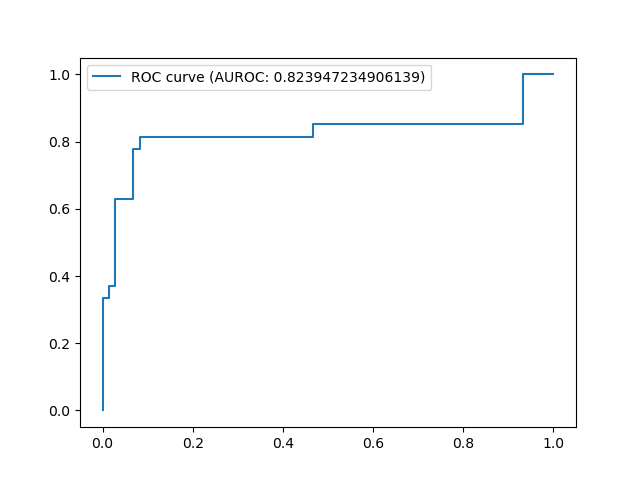
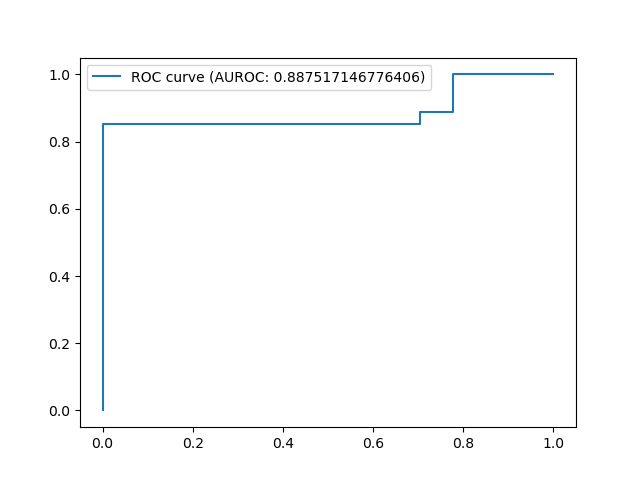
updates to comments in train and test

diff --git a/NTU/test.py b/NTU/test.py
@@ -38,7 +38,7 @@ def load_model(test_config):
 	# Assifn test clips
 	args.data_file = test_config["test_clips"]
 	# Sequentially advance 1 frame per step 
-	args.n_seqs = [f - args.nd for f in test_config["frames_per_clip"]] # New: changed to list
+	args.n_seqs = [f - args.nd for f in test_config["frames_per_clip"]] # New: changed to list # Changed to test all sequences(aka window) in video(aka trace). Number of sequences(aka windows) is total frames-frame size(aka nd = 16)
 
 	# Load  weights  
 	encoder = Encoder(args)
@@ -73,7 +73,8 @@ frame_lens = {'train': [148, 130, 130, 148, 130, 148, 130, 130, 148, 130, 130, 1
 				'out_foggy': [123, 122, 123, 121, 124, 123, 121, 121, 122, 123, 123, 121, 123, 122, 121, 121, 122, 122, 123, 123, 123, 122, 122, 123, 122, 122, 122], 
 				'out_night': [123, 122, 123, 121, 124, 123, 121, 121, 122, 123, 123, 121, 123, 122, 121, 121, 122, 122, 123, 123, 123, 122, 122, 123, 122, 122, 122], 
 				'out_snowy': [123, 122, 123, 121, 124, 123, 121, 121, 122, 123, 123, 121, 123, 122, 121, 121, 122, 122, 123, 123, 123, 122, 122, 123, 122, 122, 122], 
-				'out_rainy': [111, 141, 142, 112, 114, 141, 140, 141, 141, 140, 111, 112, 111, 113, 114, 111, 114, 141, 114, 111, 116, 141, 112, 122, 112, 141, 111, 112, 141, 141, 112, 112, 111, 116, 142, 140, 111, 116, 111, 116, 116, 114, 113, 111, 142, 115, 114, 111, 141, 116, 122, 114, 114, 141, 112, 141, 114, 141, 111, 111, 111, 113, 111, 114, 111, 141, 116, 111, 122, 117, 111, 111, 111]}
+				#'out_rainy_old': [111, 141, 142, 112, 114, 141, 140, 141, 141, 140, 111, 112, 111, 113, 114, 111, 114, 141, 114, 111, 116, 141, 112, 122, 112, 141, 111, 112, 141, 141, 112, 112, 111, 116, 142, 140, 111, 116, 111, 116, 116, 114, 113, 111, 142, 115, 114, 111, 141, 116, 122, 114, 114, 141, 112, 141, 114, 141, 111, 111, 111, 113, 111, 114, 111, 141, 116, 111, 122, 117, 111, 111, 111],
+				'out_rainy': [141, 122, 112, 114, 141, 140, 141, 140, 111, 112, 111, 113, 111, 114, 111, 114, 141, 114, 111, 116, 111, 114, 141, 111, 111, 141, 142]}
 
 bi3dof_simple_test_in = {
     "model_file" : "bi3dof-simple-600epoch-6seq.pt", # "model/nuscenes-mini/bi3dof-simple-600epoch.pt",
@@ -83,10 +84,11 @@ bi3dof_simple_test_in = {
 }
 
 def getOutBi3DOF(type_of_OOD):
+	features_folder = "../NTU_features_rainy_only/" # "../NTU_features_all/" # Change to "../NTU_features_rainy_only/" for rainy
 	bi3dof_simple_test_out = {
 		"model_file" : "bi3dof-simple-600epoch-6seq.pt", # "model/nuscenes-mini/bi3dof-simple-600epoch.pt",
 		"network" : "simple",   
-		"test_clips": "../NTU_features_all/{}.test".format(type_of_OOD), # "data/nuscenes-v1.0-mini.test",      
+		"test_clips": features_folder+"{}.test".format(type_of_OOD), # "data/nuscenes-v1.0-mini.test",      
 		"frames_per_clip": frame_lens[type_of_OOD]
 	}
 	return bi3dof_simple_test_out
@@ -141,5 +143,6 @@ def run(type_of_OOD):
 	print('Average detection delay for OOD traces: ', det_delay)
 	print('TNR: ', TNR)
 
-for type_of_OOD in ['out_snowy', 'out_foggy', 'out_night', 'out_rainy']:
-	run(type_of_OOD)
+if __name__ == "__main__":
+	for type_of_OOD in ['out_snowy', 'out_foggy', 'out_night', 'out_rainy']:
+		run(type_of_OOD)

diff --git a/NTU/train_nuscenes-mini.py b/NTU/train_nuscenes-mini.py
@@ -25,8 +25,9 @@ More technical details please see in paper link: https://arxiv.org/abs/2107.1175
 def init_param():
 	parser = argparse.ArgumentParser() 
 	parser.add_argument("--episode_size", type=int, default = 5, help="number of videos in one mini-batch")	 
-	# parser.add_argument("--n_seq", type=int, default = 6, help="number of sequence to sample from one video") # changed to use all sequences in video by changing datasets file to use list of n_seq values
-	parser.add_argument("--nd", type=int, default = 16, help="number of frames in a 3D input cube")    # prev: default=6; changed to 16 based on Ramneet's choice
+	# parser.add_argument("--n_seq", type=int, default = 6, help="number of sequence/window to sample from one video") 
+	# Changed above to use fixed number of random sequences (aka windows) in each video (aka trace) every epoch to train (by changing datasets file to use list of n_seq values ==> helpful to test variable number of sequences at test time)
+	parser.add_argument("--nd", type=int, default = 16, help="number of frames in a 3D input cube")    # prev: default=6; changed to 16 based on Ramneet's choice of frames in a window/sequence
 	parser.add_argument("--group", type=int, default = 2, 
 			help="2 refer to the two latent subspaces, in horizontal and vertical direction respectively.")  
 	parser.add_argument("--nz", type=int, default = 12, help="Dimension of one latent subspace")	  
@@ -96,9 +97,8 @@ def run():
 #
 seed()
 # obtain below from feature_abstraction
-frame_lens = {'train': [148, 130, 130, 148, 130, 148, 130, 130, 148, 130, 130, 130, 130, 148, 148, 130, 148, 130, 148, 148], 
-			'in': [123, 122, 123, 121, 124, 123, 121, 121, 122, 123, 123, 121, 123, 122, 121, 121, 122, 122, 123, 123, 123, 122, 122, 123, 122, 122, 122], 
-			'out_foggy': [123, 122, 123, 121, 124, 123, 121, 121, 122, 123, 123, 121, 123, 122, 121, 121, 122, 122, 123, 123, 123, 122, 122, 123, 122, 122, 122]}
+frame_lens = {'train': [148, 130, 130, 148, 130, 148, 130, 130, 148, 130, 130, 130, 130, 148, 148, 130, 148, 130, 148, 148]
+				}
 args = init_param()
 args.training = True
 args.data_file = "../NTU_features/train.train" # "data/nuscenes-v1.0-mini.train"

diff --git a/NTU/feature_abstraction.py b/NTU/feature_abstraction.py
@@ -32,7 +32,7 @@ class FeatureAbstraction:
 		train_folders = [6, 20, 17, 7, 30, 8, 13, 27, 5, 26, 31, 21, 32, 3, 10, 19, 1, 24, 4, 2]
 		frame_lens = {}
 
-		for phase in ["train", "in", "out_foggy", "out_night", "out_snowy", "out_rainy"]:
+		for phase in ["train", "in", "out_foggy", "out_night", "out_snowy", "out_rainy"]
 			# List file for train and test loaders
 			self.store = []
 			frame_lens[phase] = []
@@ -108,7 +108,7 @@ class FeatureAbstraction:
 if __name__ == "__main__":
 	trainroot = '../Vanderbilt_data/training/' # 'data/nuscenes-v1.0-mini/'
 	testroot = '../Vanderbilt_data/testing/'
-	dstroot = '../NTU_features_all/'
+	dstroot = '../NTU_features_rainy_only/'
 	try:
 		os.mkdir(dstroot)
 	except:
